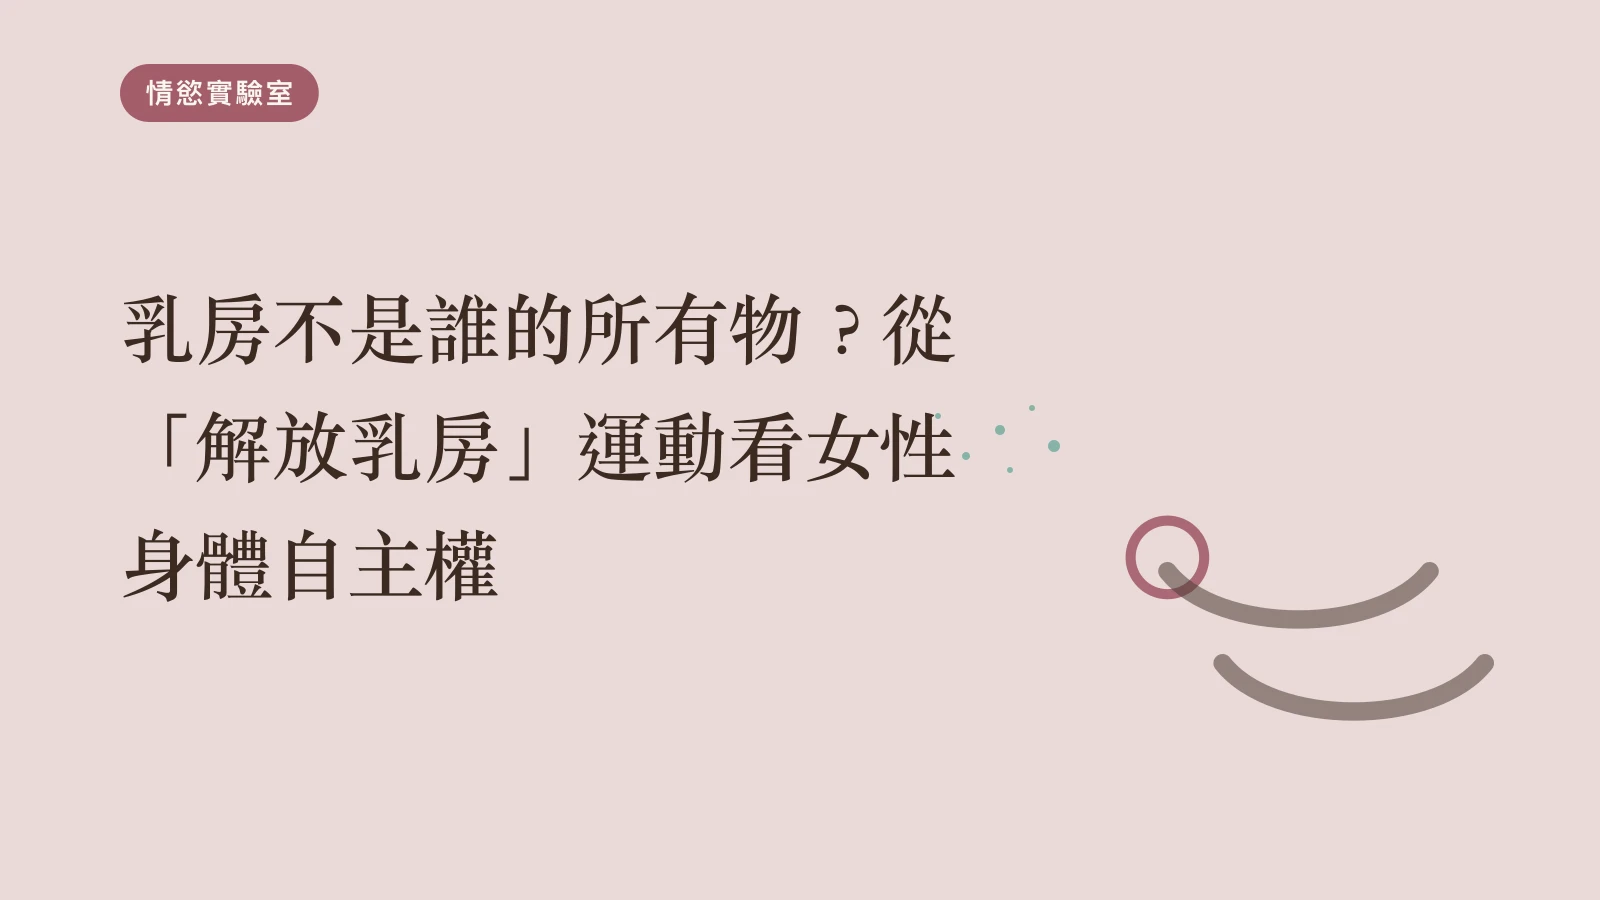
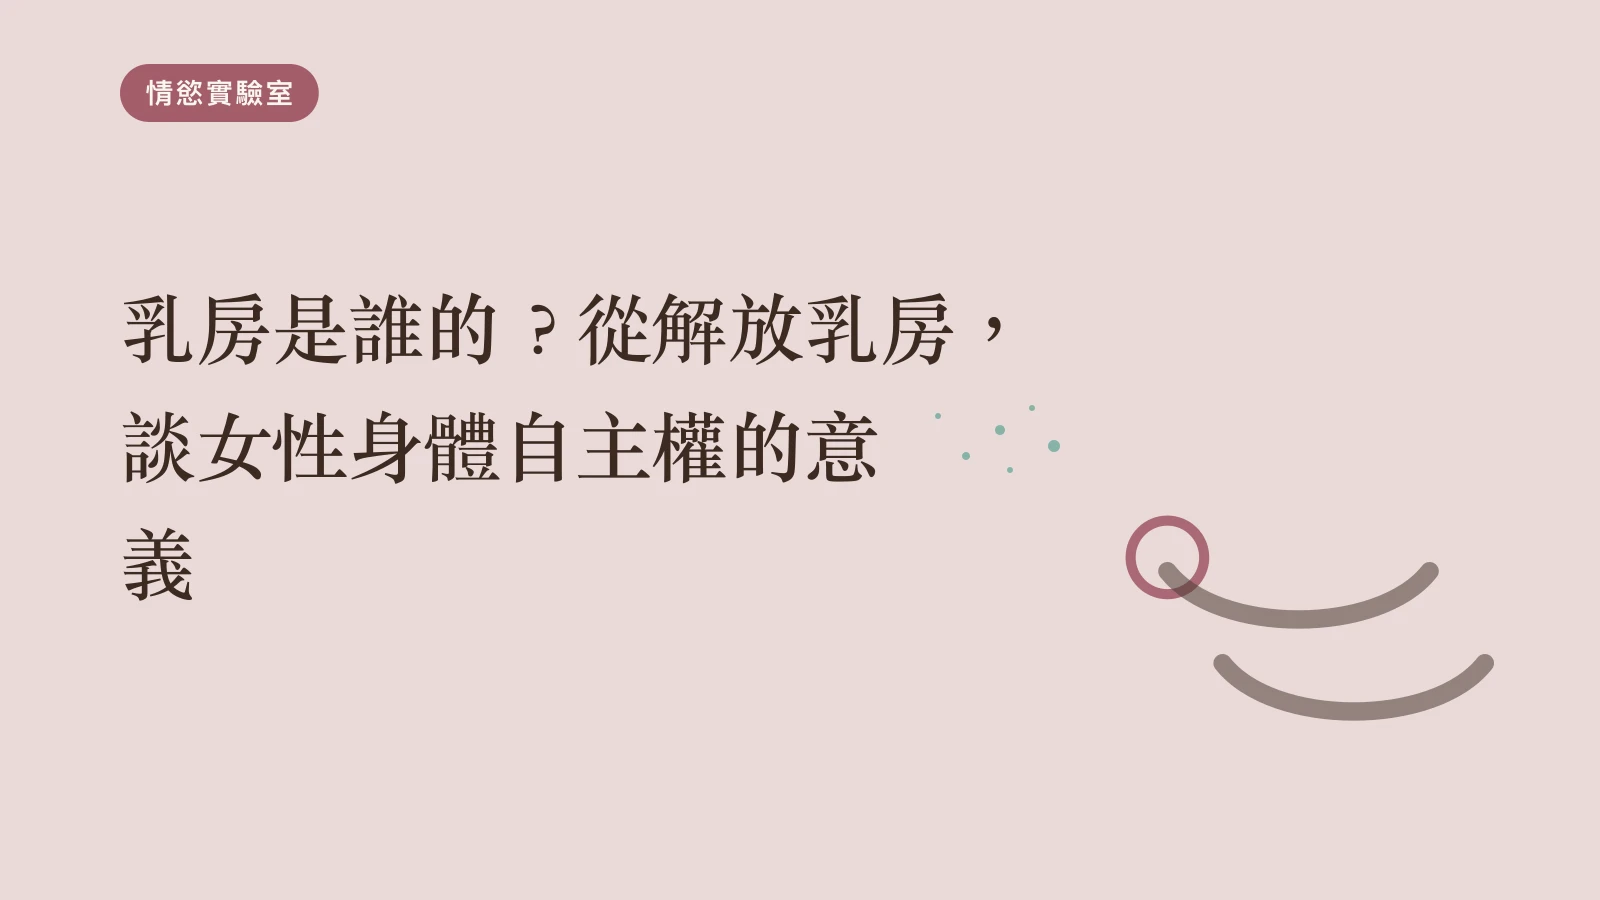
content: 新增〈為什麼陪伴青少年談性，也是在陪伴自己的青春期？〉；fix: 標題斷行改用鎖字防止孤字/溢出、標籤重複井字號
- 新文章：耍廢自癒角，性教育團體心得
- 修正兩篇既有文章標題（乳房、刻板印象標籤）避免手機版斷字/溢出
- wrap-title.ts 改用 nowrap 子句 + 無斷點時安全退回預設換行
- 修正 ArticleLayout 標籤顯示重複 # 的問題

Changed region(s): [[0.0625, 0.4356, 0.5938, 0.56], [0.1562, 0.3111, 0.625, 0.4044], [0.0625, 0.5911, 0.3125, 0.6844]]

diff --git a/src/lib/wrap-title.ts b/src/lib/wrap-title.ts
@@ -2,7 +2,7 @@
  * 讓標題只在自然斷句處（？：！。）換行，避免瀏覽器把中文標題從詞語或標點中間硬斷開。
  * 回傳的 HTML 字串要搭配 `set:html` 使用。
  */
-const BREAK_AFTER = ['？', '：', '！', '。'];
+const BREAK_AFTER = ['？', '：', '！', '。', '，'];
 
 function escapeHtml(text: string): string {
   return text.replace(/&/g, '&amp;').replace(/</g, '&lt;').replace(/>/g, '&gt;');
@@ -21,5 +21,19 @@ export function wrapTitleHtml(title: string): string {
   }
   if (current) segments.push(current);
 
-  return segments.map((seg) => `<span class="whitespace-nowrap">${escapeHtml(seg)}</span>`).join('');
+  // 標題裡完全沒有可斷句的標點（例如只在結尾有一個？），代表整句會被當成
+  // 單一個 nowrap 區塊，在窄螢幕上反而會整段被硬生生撐出容器、字直接消失在
+  // 畫面外——這比「偶爾斷字」還糟。這種情況乾脆放棄鎖字，交給瀏覽器用預設
+  // 方式換行（退回沒有這個功能之前的行為），至少內容還看得到。
+  if (segments.length <= 1) {
+    return escapeHtml(title);
+  }
+
+  // 每個子句包成 nowrap 的 span：保證同一個詞/子句絕不會被硬拆成孤字斷行
+  // （這比只插入 <br> 更可靠——<br> 只保證斷句處會換行，沒辦法阻止子句自己在
+  // 窄螢幕上被瀏覽器從中間再斷一次）。搭配 h1 在手機寬度縮小字級，把子句在窄
+  // 螢幕上真的溢出容器的機率壓到最低。
+  return segments
+    .map((seg) => `<span class="whitespace-nowrap">${escapeHtml(seg)}</span>`)
+    .join(' ');
 }

diff --git a/src/content/articles/accompany-teens-sex-ed-own-adolescence.md b/src/content/articles/accompany-teens-sex-ed-own-adolescence.md
@@ -1,0 +1,91 @@
+---
+title: 為什麼陪伴青少年談性，也是在陪伴自己的青春期？
+date: 2026-08-10T00:00:00.000Z
+category: 耍廢自癒角
+tags:
+  - '#性教育'
+  - '#青少年性教育'
+  - '#自我療癒'
+  - '#陪伴'
+summary: >-
+  帶青少年性教育團體四天後，她發現自己不只是在陪伴孩子們探索身體與情感，也在陪伴曾經沒有被好好接住的青春期的自己。這篇文章記錄了那些孩子們毫無保留問出口的好奇，也記錄了她如何在一次次的陪伴裡，慢慢成為了自己的性教育父母。
+reference: null
+cover: /images/cover-accompany-teens-sex-ed-own-adolescence.webp
+---
+
+我能給的最大，就是讓你們，面對性時，
+能自發地說出自己的好奇，無須擔心被評價與指責。
+
+那些我在青春期時，沒有機會被好好地陪伴的經驗，
+都在這些一次次和不同發展階段的你們相處的歷程中，
+逐漸翻轉了那些童年的壓抑、挫折與無助，
+我知道自己，也終於成為了自己性教育的父母。
+
+> 我知道自己，也終於成為了自己性教育的父母。
+
+## 他們問我的，那些好奇
+
+「為什麼有些人是異性戀，卻會對同性產生慾望？」
+「老師，什麼是陰唇啊？」
+「夢遺是夢遊嗎？」
+「老師，如果我熱情跟男友打招呼他都很冷淡，我該怎麼辦？」
+「為什麼保險套不能戴兩層啊？」
+「有可能月經來的時候同時也排卵嗎？」
+「結紮是不是可以反悔再變回來？他們還會有慾望嗎？」
+「老師，為什麼龜頭是紅色的？」
+「如果滿十七歲發生性行為會有問題嗎？」
+「為什麼很多男生都不專情啊？」
+「戴保險套要把包皮推下來嗎？」
+
+很多，很多的好奇在四天的相處之中被延展開來，
+他們知道，他們可以自在地問，
+他們知道，就算我不懂，我也會認真跟他們交流討論。
+
+## 這個自在的空間，好喜歡
+
+好幾次，我都在心中吶喊，
+好喜歡這樣的空間，好喜歡我們自在在這裡，
+你可以說話，可以沉默，可以不想要，也可以很踴躍，
+不管面對感情、面對性、還是面對生活，
+能好好尊重自己的感覺都好重要。
+
+> 你可以說話，可以沉默，可以不想要，也可以很踴躍。
+
+確實，有些時候考量團體動力，
+我還是需要調整、需要思量、需要評估拿捏和推進，
+但是，那完全都是我的事，
+他們只需要好好地和自己在一起，
+全然地在那個當下即可。
+
+我發現自己，也能更自在地，
+和每個不同樣貌的靈魂互動著。
+更可貴的是，性教育團體，
+是太棒的媒材，能夠看見每個人的人格與性人格樣貌。
+
+結束之後，我知道自己就會離開這裡，
+但是我能把這些評估與看見，轉化成貢獻。
+
+## 陪伴他們，也是在陪伴曾經的自己
+
+坦白說，和他們相遇之前，有期待也會緊張，
+正如每次帶團體或接新案之前的感覺，
+不過，看著自己陪伴一團一團兒童青少年探索的歷程，
+好像也看到了自己的能力展現，
+領略了這些經驗對於自己人生的莫大珍貴。
+
+如何建構依附，如何調節情緒，
+如何尊重人際之間的界線與每個獨特的樣態，
+如何分享資源、連結資源和成為資源，
+如何不著急問題解決，離開表現焦慮，
+而是回到探索、體驗、感受和發現之中，
+這些都是這七年來，在荷光學習和實務積累中的寶貴成長。
+
+## 我終於，也成為了自己的父母
+
+總之，我很感恩有這樣的機會，
+不只是能陪伴青少年們在青春裡前行，
+也陪伴自己再次經歷了青春期，
+成為自己的父母，走過了青春的探索。
+
+多好，能體驗這些多好！
+我想，我是最幸福的人兒！

diff --git a/src/content/articles/post02.md b/src/content/articles/post02.md
@@ -1,5 +1,5 @@
 ---
-title: 為了撕下「刻板印象標籤」，我們究竟承擔了多少隱形成本？
+title: 為了撕下刻板印象標籤，我們付出多少隱形代價？
 date: 2026-08-05T00:00:00.000Z
 category: 翻頁餘溫
 tags:
@@ -30,7 +30,7 @@ cover: /images/cover-post02.webp
 
 ## 什麼是「刻板印象威脅」？
 
-除了性別與貧富，生活中還有無數的標籤：_性少數、新住民、成癮者、工人、一類組學生、運動員、心理師、天蠍座、障礙者……有多少種身份，就有多少種標籤。
+除了性別與貧富，生活中還有無數的標籤：性少數、新住民、成癮者、工人、一類組學生、運動員、心理師、天蠍座、障礙者……有多少種身份，就有多少種標籤。
 
 每一種標籤背後，都隱含著某些既定的刻板印象。當我們處在與這些刻板印象相關的情境中，<mark>感受到自己一旦走錯一步，就會被劃歸為那個印象的一環，且別人也會用這個印象來評斷自己時，我們所面臨的心態就是——「刻板印象威脅」（Stereotype Threat）。</mark>
 

diff --git a/src/content/articles/female-body-autonomy-free-the-nipple.md b/src/content/articles/female-body-autonomy-free-the-nipple.md
@@ -1,5 +1,5 @@
 ---
-title: 乳房不是誰的所有物？從「解放乳房」運動看女性身體自主權
+title: 乳房是誰的？從解放乳房，談女性身體自主權的意義
 date: 2026-08-09T00:00:00.000Z
 category: 情慾實驗室
 tags:
